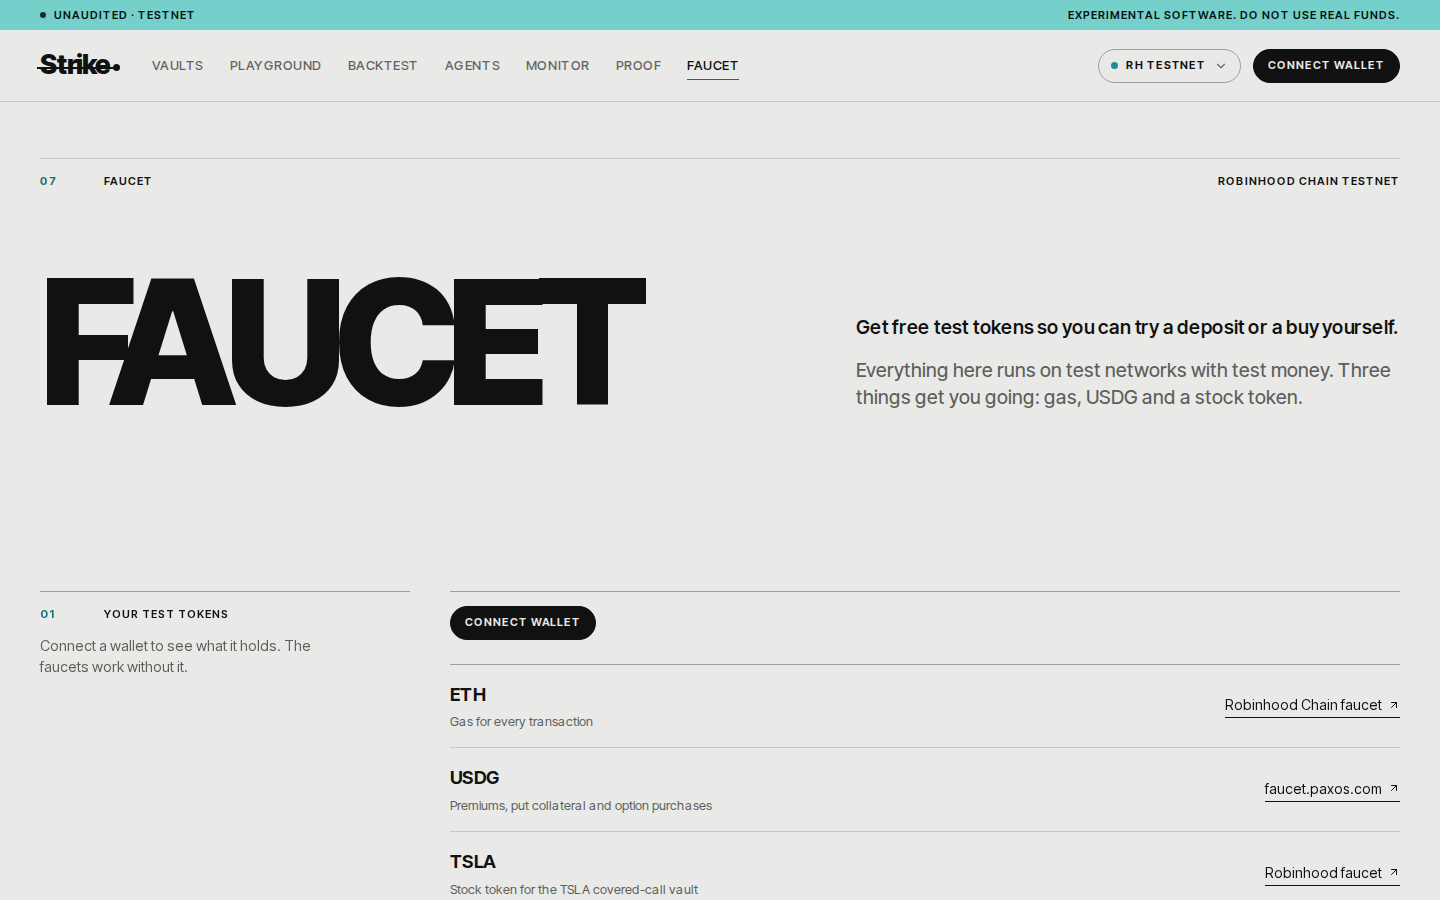
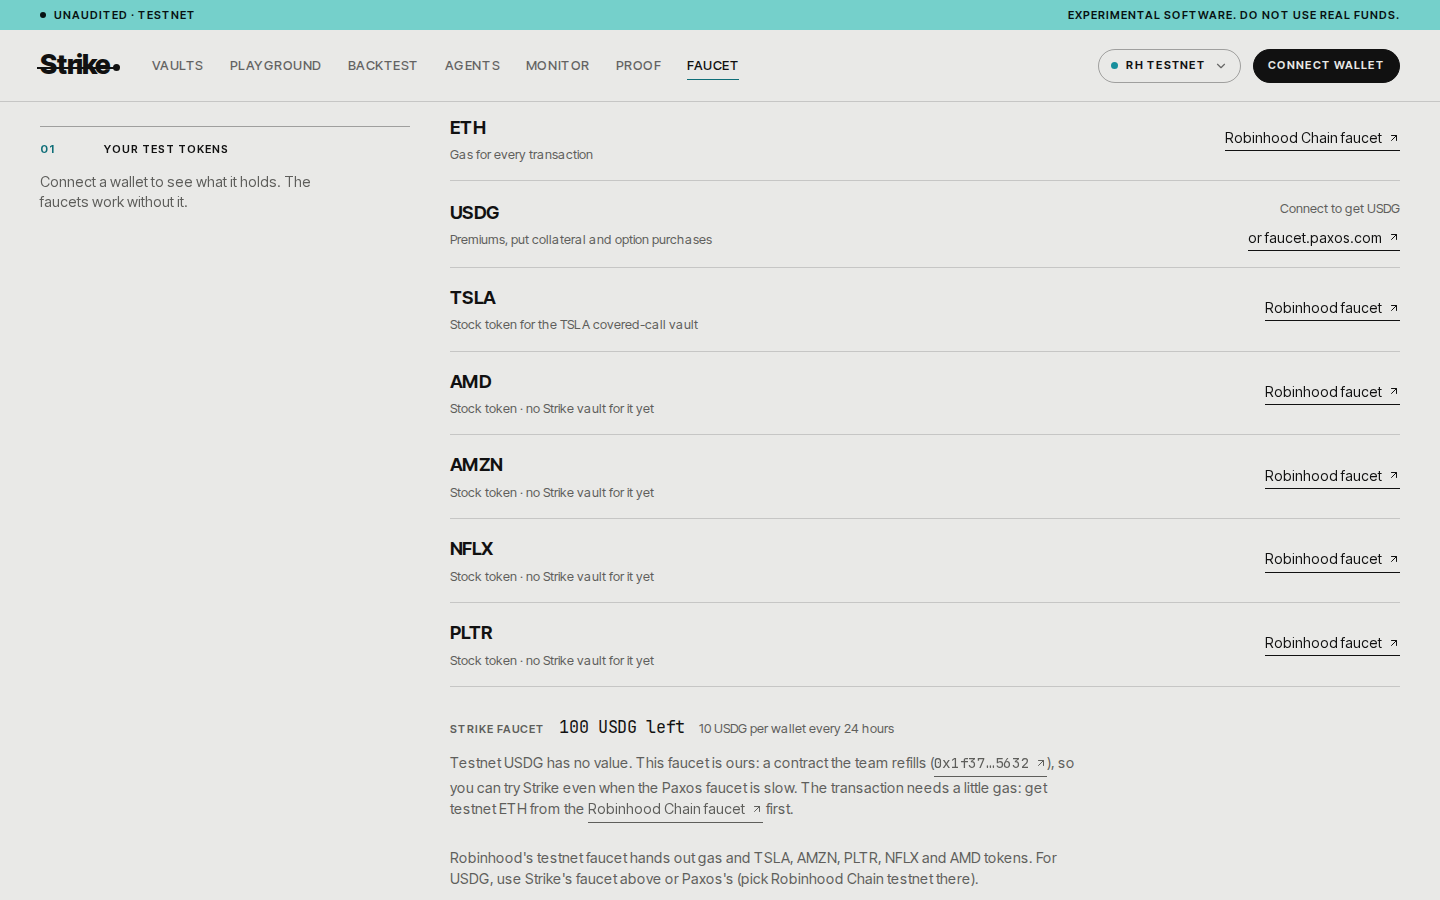
screenshot: the faucet page with Strike's USDG faucet (100 USDG left), desktop, strike-options.vercel.app, 1 October; README caption

diff --git a/README.md b/README.md
@@ -516,7 +516,7 @@ The live app at [strike-options.vercel.app](https://strike-options.vercel.app), 
   <tr>
     <td><a href="docs/screenshots/desktop-monitor.png"><img src="docs/screenshots/desktop-monitor.png" alt="Safety monitor reading Robinhood Chain mainnet: NYSE open, 8 of 8 stock tokens Ok, TSLA at $358.55 with its Chainlink feed, ERC-8056 multiplier 1.000 and both pause flags false"></a><br><sub><b>Monitor.</b> Robinhood Chain mainnet, read live: each stock token's feed, multiplier and pause flags.</sub></td>
     <td><a href="docs/screenshots/desktop-proof.png"><img src="docs/screenshots/desktop-proof.png" alt="Proof page: v2 with 14 contracts at deploy block 125,880,607, 477 Foundry tests, 99.3% line coverage, 11 of 11 review findings fixed"></a><br><sub><b>Proof.</b> Each claim next to its evidence; the active pricer is read from the chain.</sub></td>
-    <td><a href="docs/screenshots/desktop-faucet.png"><img src="docs/screenshots/desktop-faucet.png" alt="Faucet page on Robinhood Chain testnet: where to get testnet ETH, USDG and TSLA"></a><br><sub><b>Faucet.</b> Gas, USDG and a stock token for testing.</sub></td>
+    <td><a href="docs/screenshots/desktop-faucet.png"><img src="docs/screenshots/desktop-faucet.png" alt="Faucet page on Robinhood Chain testnet: where to get testnet ETH and stock tokens, and Strike's own USDG faucet with 100 USDG left"></a><br><sub><b>Faucet.</b> Gas, stock tokens and 10 test USDG a day from Strike's own faucet.</sub></td>
   </tr>
   <tr>
     <td><a href="docs/screenshots/desktop-vault-arbitrum-sepolia.png"><img src="docs/screenshots/desktop-vault-arbitrum-sepolia.png" alt="The Claude-planned series on Arbitrum Sepolia: TSLA call, strike $364.29, 105% of fair value, 4 of 4 sold, 8.91 USDG premium collected, expiry Friday 2 October"></a><br><sub><b>Arbitrum Sepolia.</b> The series Claude planned: $364.29 at 105% of fair value, sold out.</sub></td>
